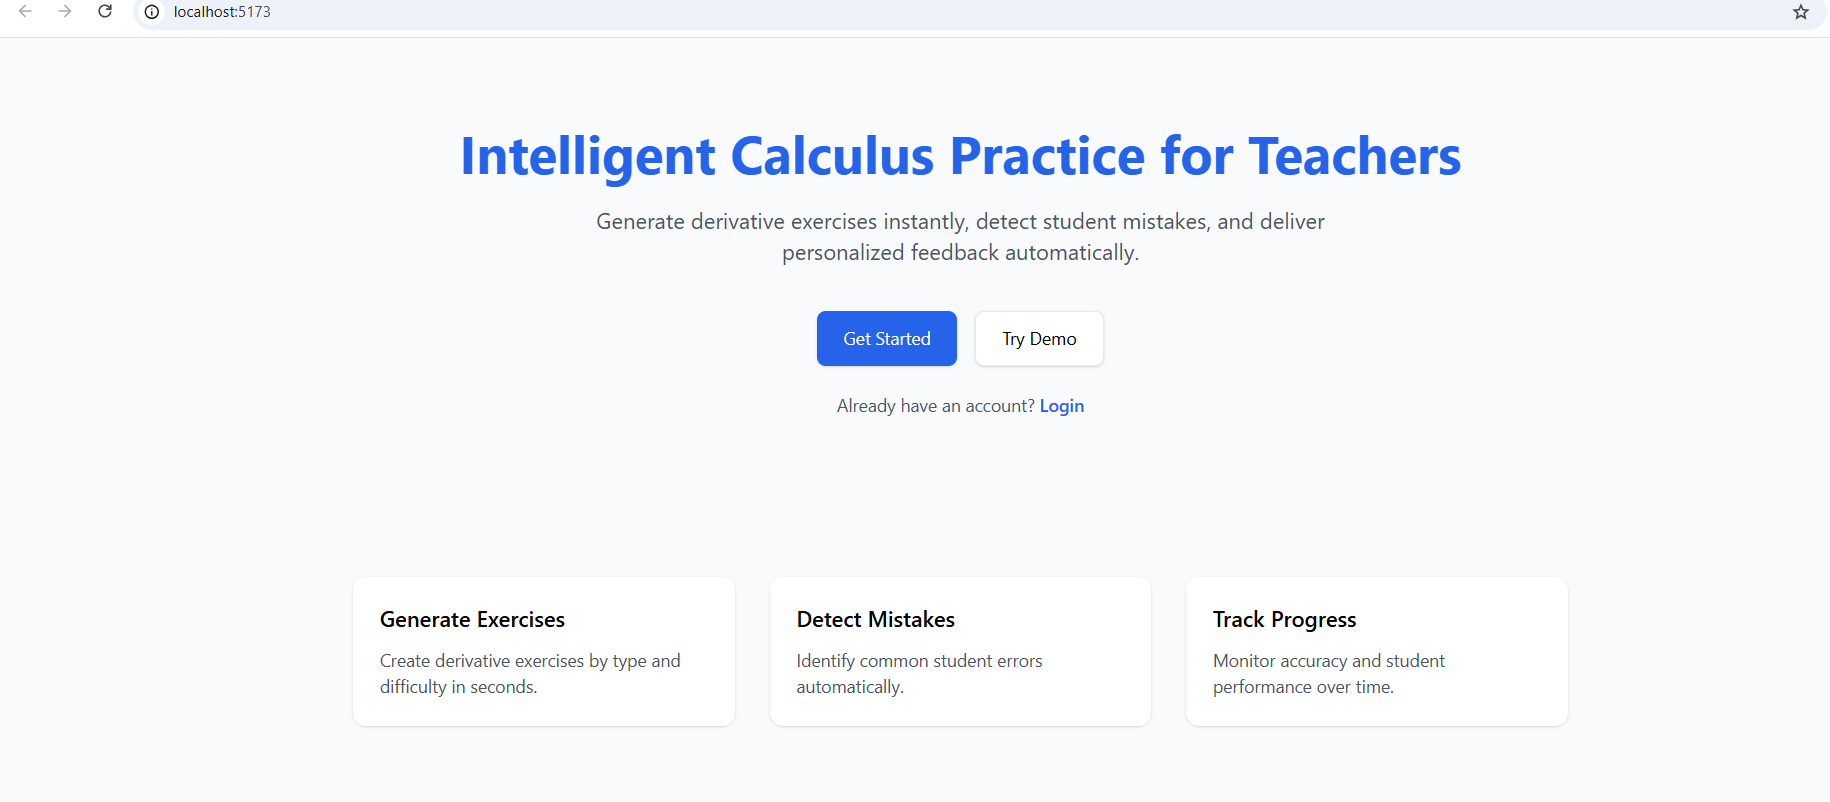
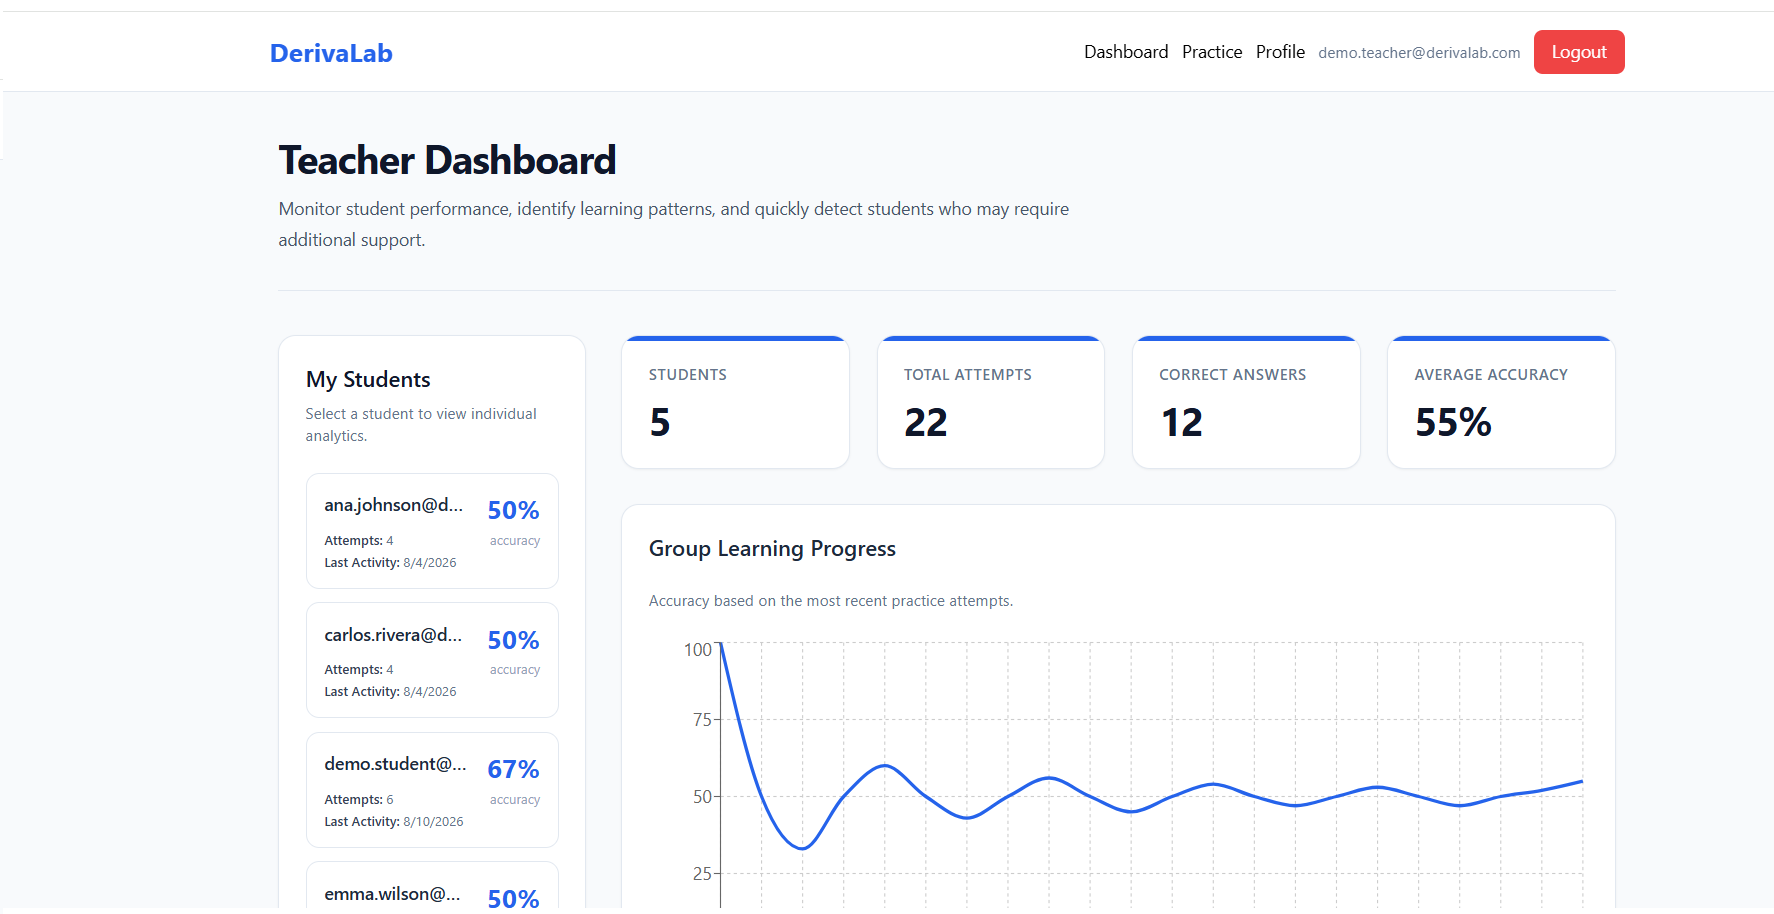
refactor: improve project showcase

diff --git a/index.html b/index.html
@@ -106,7 +106,9 @@
               <div class="project-image">
                 <img
                   src="./assets/images/derivalab.png"
-                  alt="DerivaLab application interface"
+                  alt="DerivaLab teacher dashboard showing learning analytics"
+                  loading="lazy"
+                  decoding="async"
                 />
               </div>
 
@@ -116,8 +118,9 @@
                 <h3 class="project-title">DerivaLab</h3>
 
                 <p class="project-description">
-                  A full-stack learning platform for calculus practice,
-                  feedback, and progress tracking.
+                  A full-stack calculus learning platform with exercise
+                  generation, answer validation, automated feedback, teacher and
+                  student dashboards, and persistent learning analytics.
                 </p>
 
                 <ul class="project-stack" aria-label="Technologies used">
@@ -128,6 +131,14 @@
                 </ul>
 
                 <div class="project-actions">
+                  <a
+                    href="https://derivalab.vercel.app/"
+                    target="_blank"
+                    rel="noopener noreferrer"
+                  >
+                    Live demo
+                  </a>
+
                   <a
                     href="https://github.com/lu-alvz-dev/derivalab"
                     target="_blank"
@@ -152,7 +163,9 @@
               <div class="project-image">
                 <img
                   src="./assets/images/react-client-dashboard.png"
-                  alt="React Client Dashboard interface"
+                  alt="React Client Dashboard showing API user search results"
+                  loading="lazy"
+                  decoding="async"
                 />
               </div>
 
@@ -162,8 +175,9 @@
                 <h3 class="project-title">React Client Dashboard</h3>
 
                 <p class="project-description">
-                  A React dashboard focused on API consumption, UI state,
-                  search, and reusable components.
+                  A React dashboard that fetches users from an external API and
+                  handles loading, errors, search, and reusable component
+                  structure.
                 </p>
 
                 <ul class="project-stack" aria-label="Technologies used">
@@ -197,18 +211,22 @@
               <div class="project-image">
                 <img
                   src="./assets/images/frontend-bugfix-refactor.png"
-                  alt="Frontend Bug Fix and Refactor project"
+                  alt="Side-by-side comparison of fixed and buggy calculator behavior"
+                  loading="lazy"
+                  decoding="async"
                 />
               </div>
 
               <div class="project-content">
-                <p class="project-label">Maintenance & debugging</p>
+                <p class="project-label">Maintenance &amp; debugging</p>
 
                 <h3 class="project-title">Frontend Bug Fix &amp; Refactor</h3>
 
                 <p class="project-description">
-                  A simulated existing codebase where I investigate bugs,
-                  identify root causes, and apply maintainable fixes.
+                  A debugging and refactoring exercise built around an existing
+                  codebase: identify issues, document root causes, apply fixes,
+                  and improve maintainability without changing the intended
+                  behavior.
                 </p>
 
                 <ul class="project-stack" aria-label="Technologies used">

diff --git a/css/style.css b/css/style.css
@@ -1,6 +1,4 @@
-/* ================================
-   Base
-   ================================ */
+/* Base styles */
 
 :root {
   --color-background: #deded1;
@@ -80,9 +78,7 @@ section {
   padding: 9.6rem 0;
 }
 
-/* ================================
-   Navigation
-   ================================ */
+/* Navigation */
 
 .site-header {
   position: fixed;
@@ -145,9 +141,7 @@ section {
   border-radius: 2px;
 }
 
-/* ================================
-   Hero
-   ================================ */
+/* Hero */
 
 .section-hero {
   min-height: 100vh;
@@ -222,9 +216,7 @@ section {
   border-radius: 50%;
 }
 
-/* ================================
-   Buttons
-   ================================ */
+/* Buttons */
 
 .btn {
   display: inline-flex;
@@ -277,9 +269,7 @@ section {
   border-color: var(--color-accent-dark);
 }
 
-/* ================================
-   Section headers
-   ================================ */
+/* Section headers */
 
 .section-header {
   max-width: 72rem;
@@ -313,27 +303,23 @@ section {
   line-height: 1.7;
 }
 
-/* ================================
-   Projects
-   ================================ */
+/* Projects */
 
 .section-work {
   border-top: 1px solid var(--color-border);
 }
 
 .projects {
-  display: flex;
-  flex-direction: column;
-  gap: 3.2rem;
+  display: grid;
+  grid-template-columns: repeat(2, minmax(0, 1fr));
+  gap: 2.4rem;
 }
 
 .project {
-  display: grid;
-  grid-template-columns: minmax(0, 1fr) minmax(28rem, 0.8fr);
-  gap: 4.8rem;
-  align-items: center;
-
-  padding: 3.2rem;
+  display: flex;
+  flex-direction: column;
+  min-width: 0;
+  padding: 2.4rem;
 
   background-color: var(--color-surface);
   border: 1px solid var(--color-border);
@@ -343,12 +329,22 @@ section {
 }
 
 .project-featured {
-  grid-template-columns: minmax(0, 1.3fr) minmax(28rem, 0.7fr);
+  grid-column: 1 / -1;
+
+  display: grid;
+  grid-template-columns: minmax(0, 1.4fr) minmax(28rem, 0.6fr);
+  align-items: center;
+  gap: 4.8rem;
+
   padding: 4rem;
+
+  background-color: var(--color-white);
 }
 
 .project-image {
   overflow: hidden;
+
+  aspect-ratio: 16 / 9;
 
   background-color: var(--color-white);
   border: 1px solid var(--color-border);
@@ -357,9 +353,10 @@ section {
 
 .project-image img {
   width: 100%;
-  height: auto;
+  height: 100%;
 
   object-fit: cover;
+  object-position: top center;
 
   transition: transform 0.3s ease;
 }
@@ -370,6 +367,7 @@ section {
 
 .project-content {
   display: flex;
+  flex: 1;
   flex-direction: column;
   align-items: flex-start;
 }
@@ -386,9 +384,13 @@ section {
 
 .project-title {
   color: var(--color-text);
-  font-size: 2.8rem;
+  font-size: 2.4rem;
   font-weight: 700;
   line-height: 1.2;
+}
+
+.project-featured .project-title {
+  font-size: 3.2rem;
 }
 
 .project-description {
@@ -419,12 +421,17 @@ section {
   font-weight: 500;
 }
 
+.project-featured .project-stack li {
+  background-color: var(--color-surface);
+}
+
 .project-actions {
   display: flex;
   flex-wrap: wrap;
   gap: 1.6rem;
 
-  margin-top: 2.4rem;
+  margin-top: auto;
+  padding-top: 2.4rem;
 }
 
 .project-actions a,
@@ -675,9 +682,14 @@ section {
     height: 14rem;
   }
 
-  .project,
-  .project-featured {
+  .projects {
     grid-template-columns: 1fr;
+  }
+
+  .project-featured {
+    grid-column: auto;
+    grid-template-columns: 1fr;
+
     gap: 3.2rem;
     padding: 2.4rem;
   }
